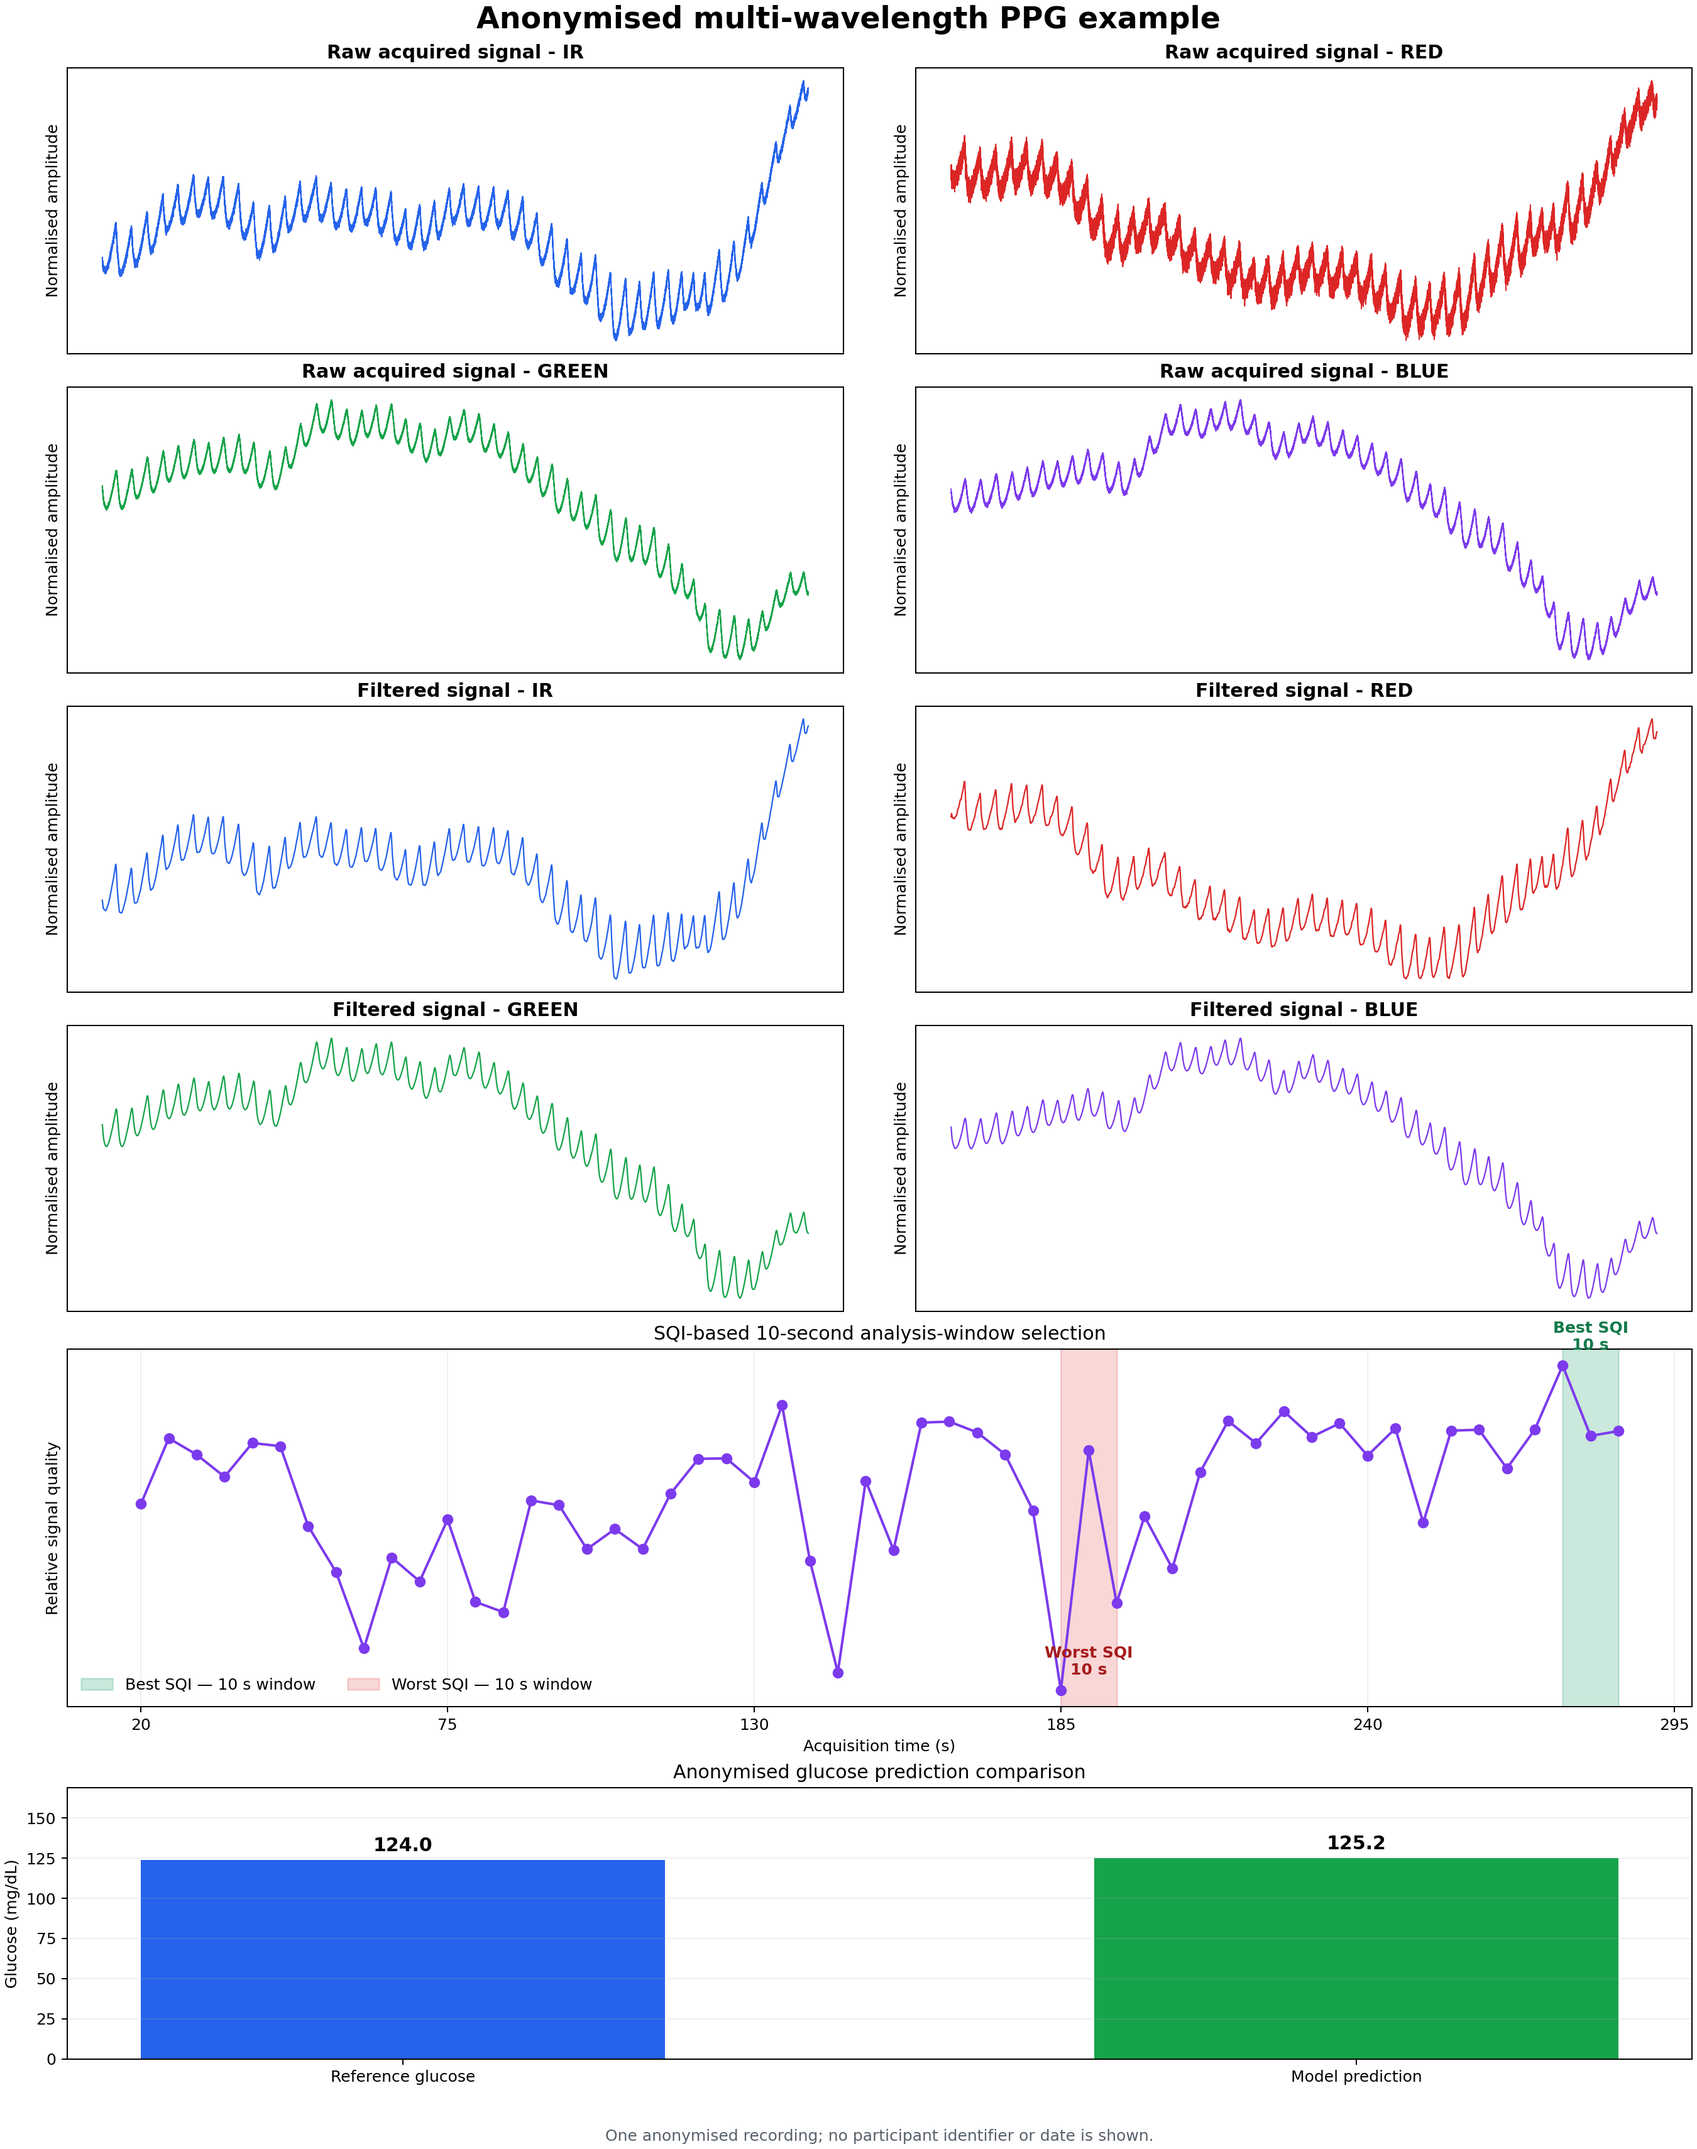
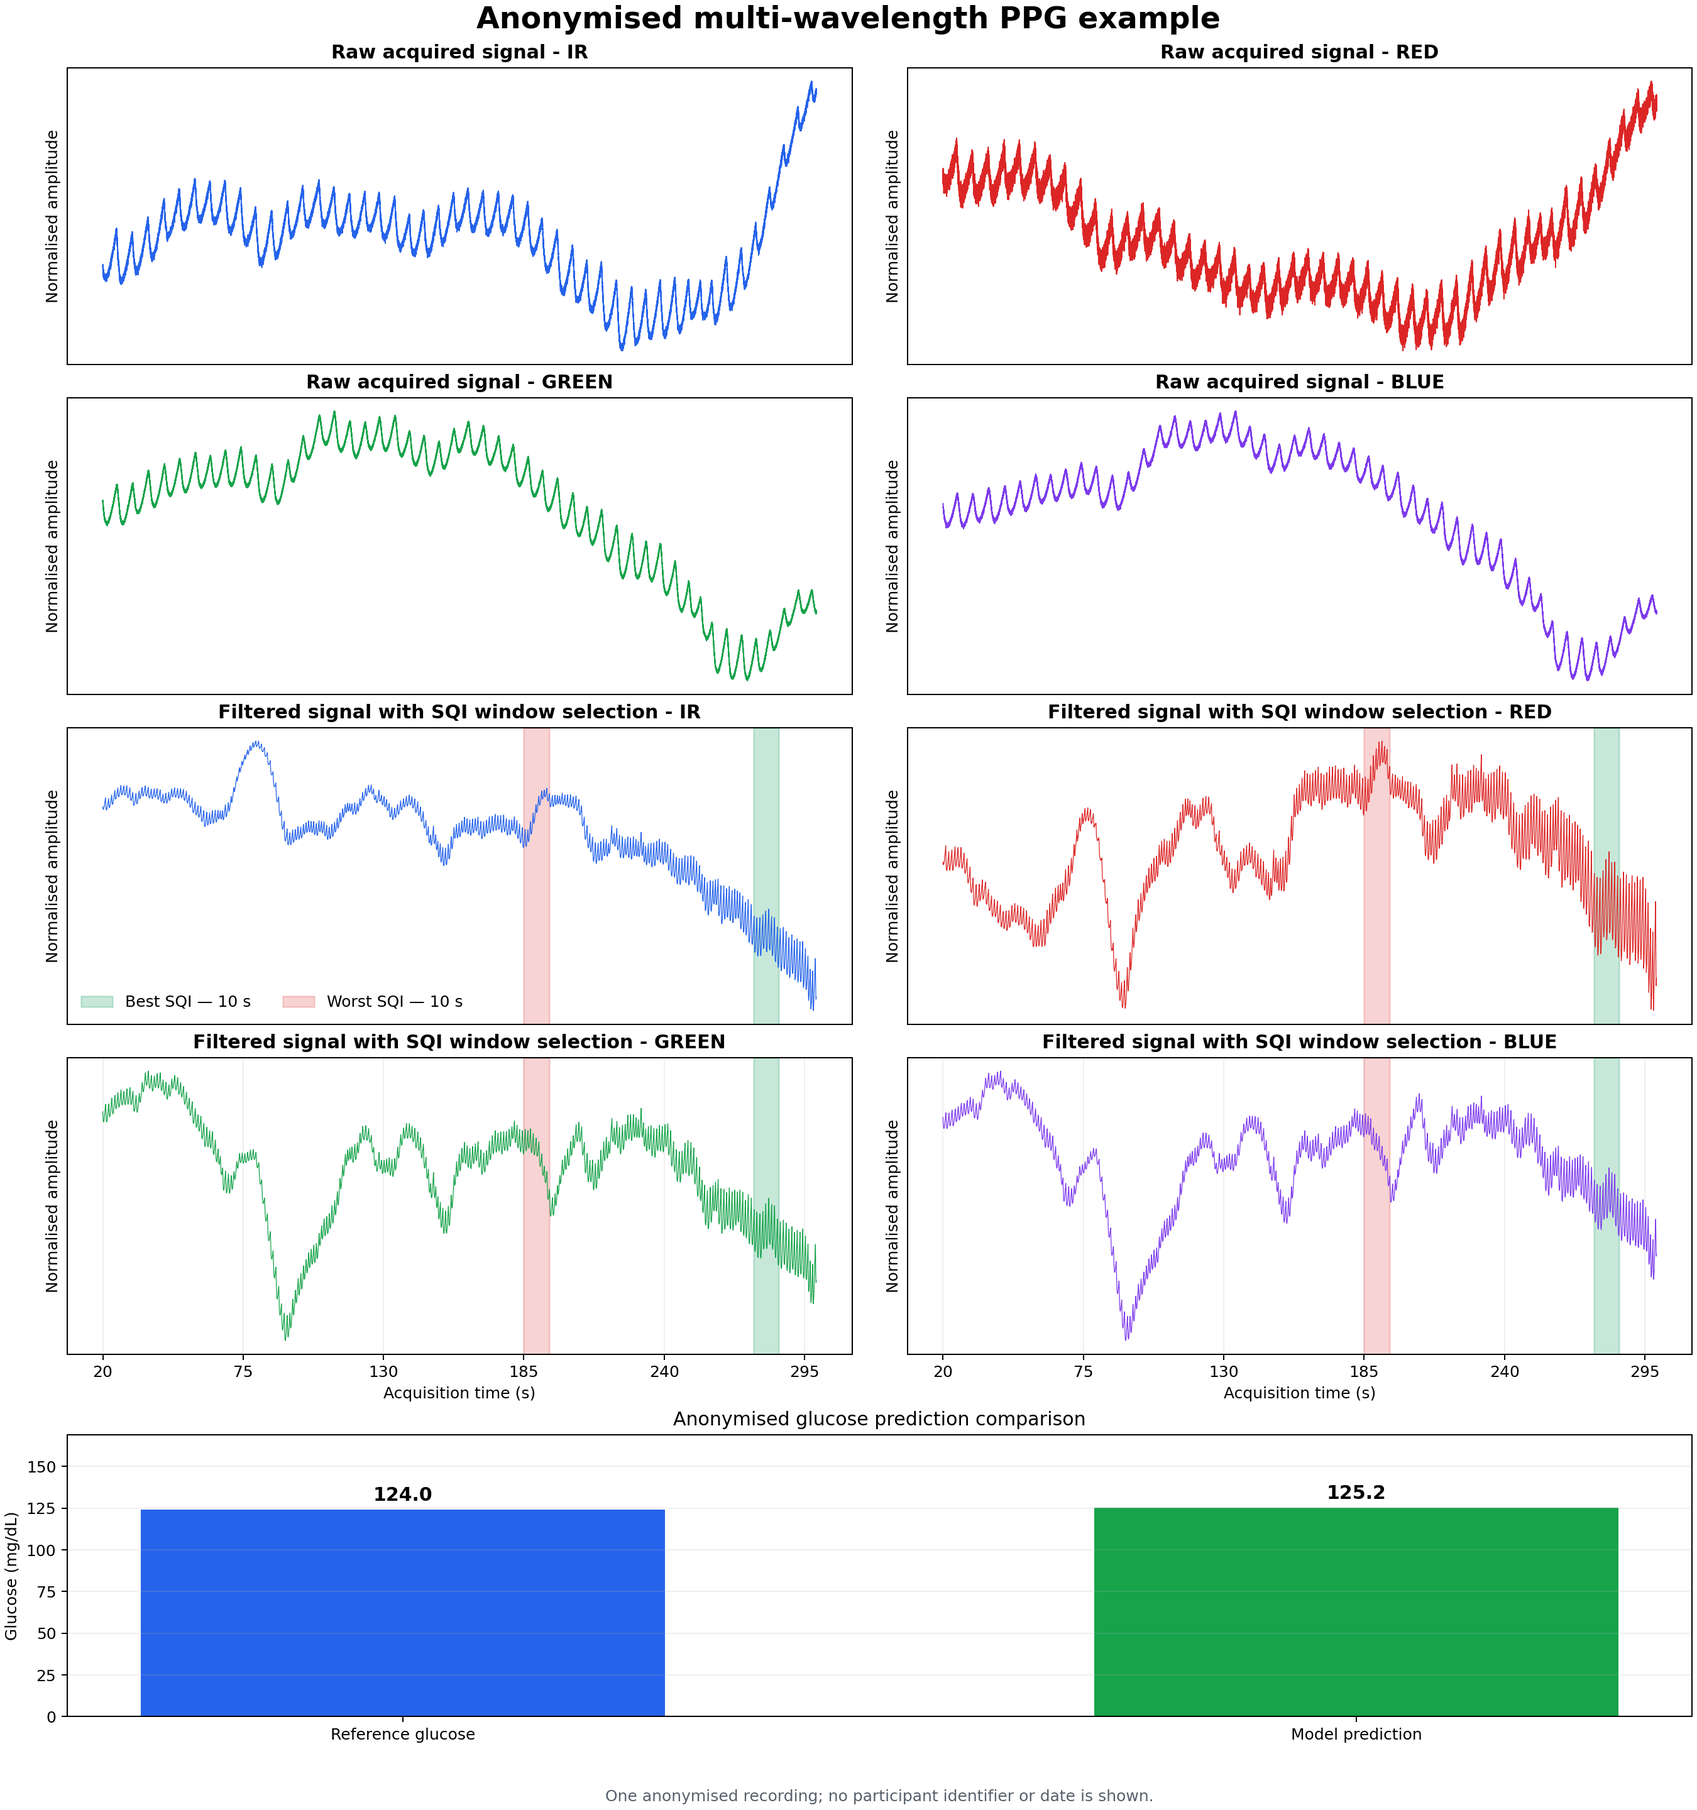
Show SQI windows directly on filtered signals

diff --git a/README.md b/README.md
@@ -41,9 +41,10 @@ implementation details, and experimental data. See [Software overview](docs/SOFT
 ![Anonymised recording workflow](assets/anonymized-recording-workflow.png)
 
 This figure illustrates one anonymised workflow: four acquired optical signals,
-their filtered views, SQI-based best and worst 10-second windows, and one
-reference-versus-prediction comparison. Participant identifiers, dates, raw
-files, model parameters, and performance metrics are intentionally not shown.
+their filtered views with the SQI-based best and worst 10-second windows
+highlighted directly on them, and one reference-versus-prediction comparison.
+Participant identifiers, dates, raw files, model parameters, and performance
+metrics are intentionally not shown.
 
 ## Data and publication policy
 
